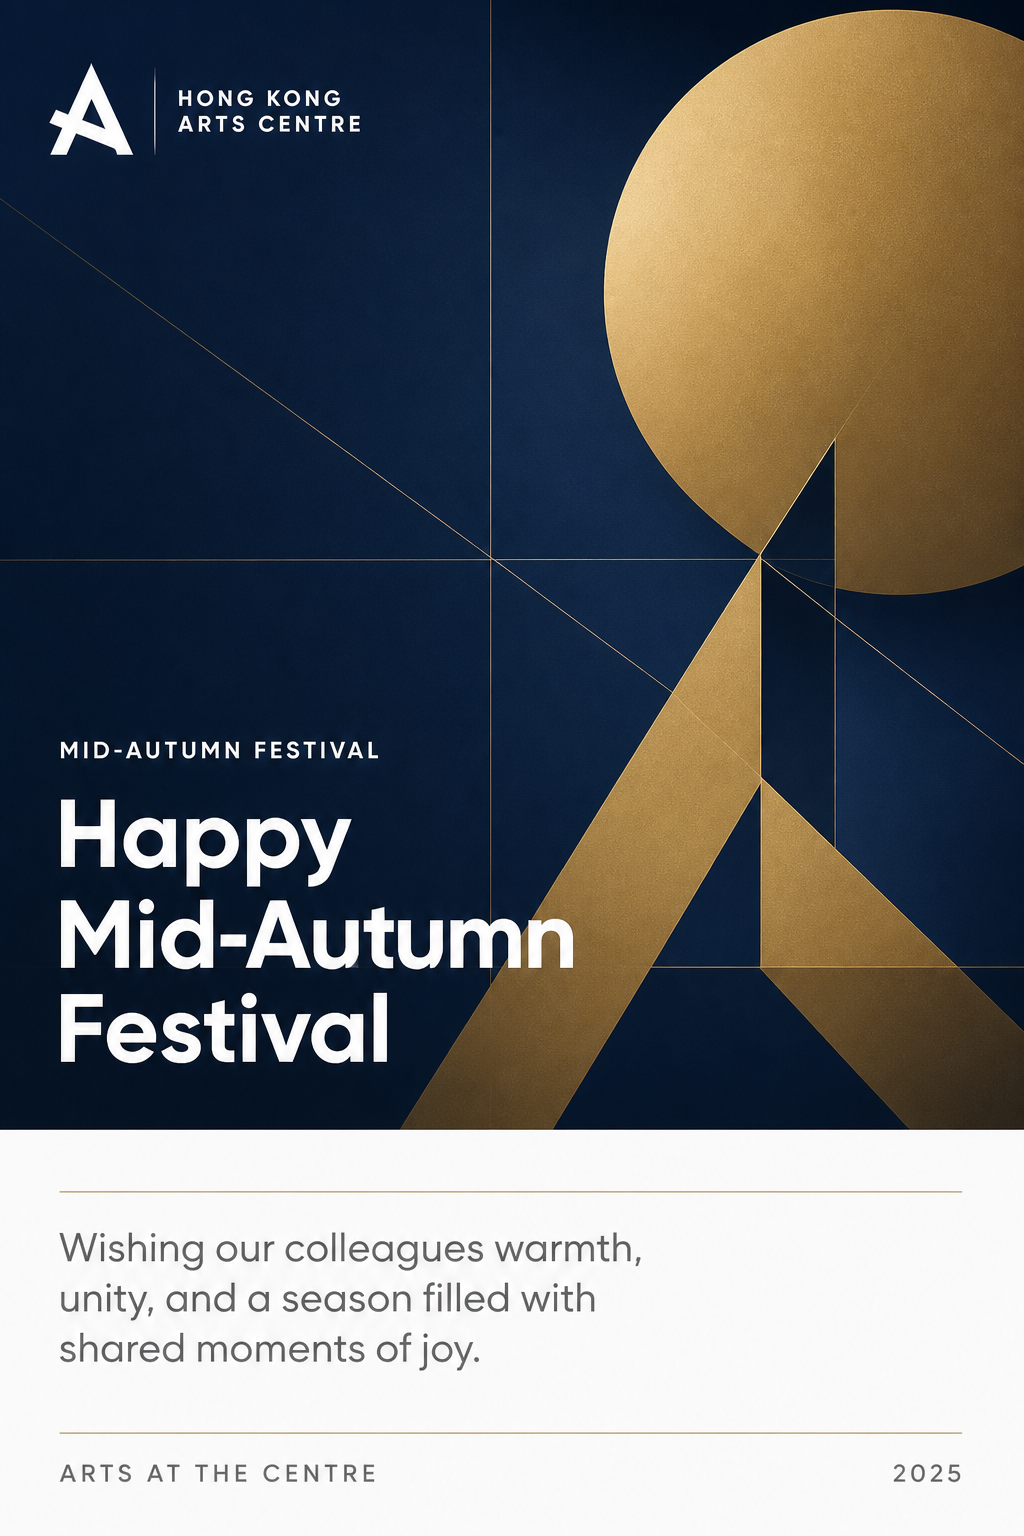
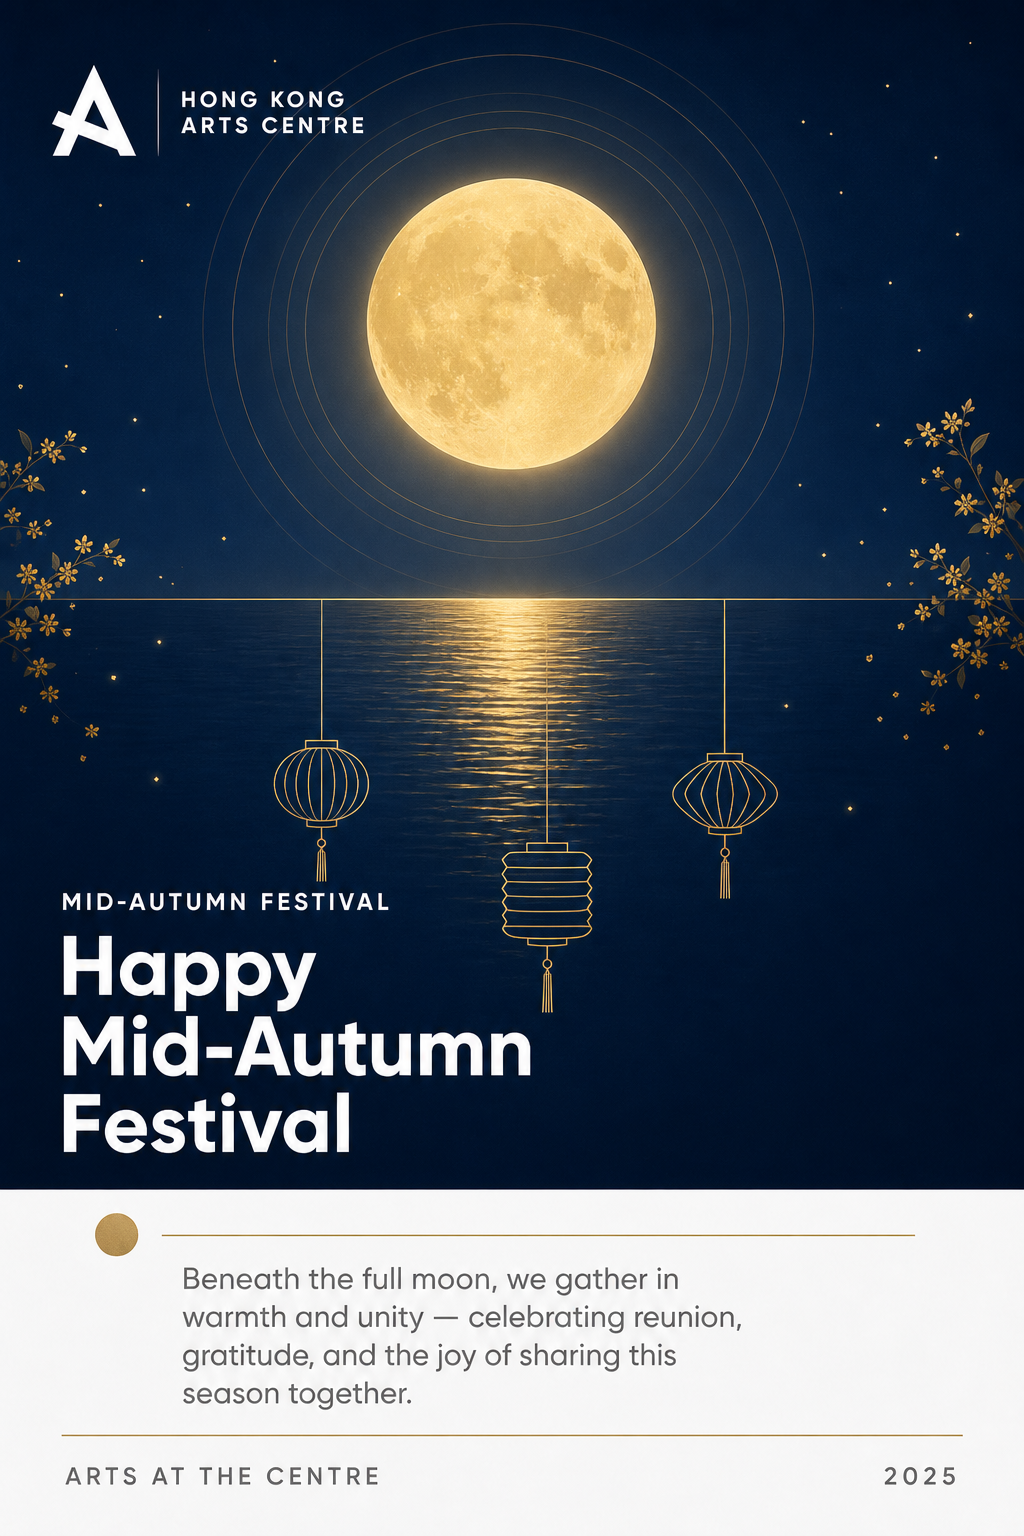
Refine Mid-Autumn card with festival symbolism
Add full moon, moon-viewing reflection, reunion rings, minimal
lanterns, osmanthus accents and night sky while keeping corporate
HKAC poster aesthetic. Update message to emphasise reunion theme.

diff --git a/hkac-mid-autumn-greeting-card.html b/hkac-mid-autumn-greeting-card.html
@@ -10,12 +10,14 @@
   <style>
     :root {
       --white: #ffffff;
-      --off-white: #f7f7f5;
       --ink: #111111;
-      --navy: #1a2233;
+      --navy: #162033;
+      --navy-deep: #0d1520;
       --gold: #c9a24d;
       --gold-soft: #e8d5a8;
+      --gold-glow: rgba(232, 213, 168, 0.35);
       --slate: #5c6470;
+      --horizon: rgba(232, 213, 168, 0.18);
     }
 
     * {
@@ -47,97 +49,160 @@
 
     .hero {
       position: relative;
-      background: var(--navy);
+      background: var(--navy-deep);
       overflow: hidden;
     }
 
-    .hero::before {
-      content: "";
+    .sky {
       position: absolute;
       inset: 0;
-      background: linear-gradient(160deg, #243048 0%, var(--navy) 55%, #121820 100%);
+      background: linear-gradient(180deg, #1a2840 0%, var(--navy) 42%, #121c2c 68%, #0a1018 100%);
     }
 
-    .triangle {
+    .stars {
       position: absolute;
-      width: 0;
-      height: 0;
-      border-style: solid;
-      opacity: 0.9;
+      inset: 0;
+      pointer-events: none;
     }
 
-    .triangle--1 {
-      bottom: 18%;
-      left: -8%;
-      border-width: 0 0 180px 220px;
-      border-color: transparent transparent var(--gold) transparent;
-      opacity: 0.22;
+    .star {
+      position: absolute;
+      width: 2px;
+      height: 2px;
+      border-radius: 50%;
+      background: rgba(255, 255, 255, 0.45);
     }
 
-    .triangle--2 {
-      top: 12%;
-      right: -6%;
-      border-width: 140px 160px 0 0;
-      border-color: var(--gold-soft) transparent transparent transparent;
-      opacity: 0.14;
+    .star:nth-child(1) { top: 12%; left: 18%; }
+    .star:nth-child(2) { top: 8%; left: 42%; opacity: 0.7; }
+    .star:nth-child(3) { top: 15%; left: 68%; width: 3px; height: 3px; opacity: 0.55; }
+    .star:nth-child(4) { top: 20%; left: 84%; opacity: 0.4; }
+    .star:nth-child(5) { top: 24%; left: 28%; opacity: 0.35; }
+
+    .reunion-ring {
+      position: absolute;
+      top: 10%;
+      left: 50%;
+      transform: translateX(-50%);
+      border-radius: 50%;
+      border: 1px solid rgba(232, 213, 168, 0.12);
+      pointer-events: none;
     }
 
-    .triangle--3 {
-      bottom: 0;
-      right: 18%;
-      border-width: 0 90px 110px 0;
-      border-color: transparent var(--white) transparent transparent;
-      opacity: 0.06;
-    }
+    .reunion-ring--1 { width: 52%; aspect-ratio: 1; }
+    .reunion-ring--2 { width: 64%; aspect-ratio: 1; opacity: 0.6; }
+    .reunion-ring--3 { width: 76%; aspect-ratio: 1; opacity: 0.3; }
 
     .moon {
       position: absolute;
-      top: 14%;
-      right: 12%;
-      width: 42%;
+      top: 11%;
+      left: 50%;
+      transform: translateX(-50%);
+      width: 30%;
       aspect-ratio: 1;
       border-radius: 50%;
-      background: radial-gradient(circle at 35% 32%, #fff8e8 0%, var(--gold-soft) 42%, var(--gold) 100%);
-      box-shadow: 0 0 0 1px rgba(255, 255, 255, 0.08);
+      background: radial-gradient(circle at 38% 34%, #fffef6 0%, var(--gold-soft) 38%, var(--gold) 88%);
+      box-shadow:
+        0 0 48px var(--gold-glow),
+        0 0 96px rgba(201, 162, 77, 0.15);
+      z-index: 2;
     }
 
-    .moon-cut {
+    .horizon {
       position: absolute;
-      top: 22%;
-      right: 6%;
-      width: 34%;
-      aspect-ratio: 1;
-      border-radius: 50%;
-      background: #1e2838;
-    }
-
-    .grid-line {
-      position: absolute;
-      background: rgba(255, 255, 255, 0.06);
-    }
-
-    .grid-line--h {
-      left: 8%;
-      right: 8%;
+      left: 0;
+      right: 0;
+      top: 58%;
       height: 1px;
-      top: 62%;
+      background: linear-gradient(90deg, transparent, var(--horizon), transparent);
+      z-index: 3;
     }
 
-    .grid-line--v {
-      top: 10%;
-      bottom: 10%;
-      width: 1px;
-      left: 38%;
+    .moon-reflection {
+      position: absolute;
+      top: 60%;
+      left: 50%;
+      transform: translateX(-50%);
+      width: 22%;
+      height: 8%;
+      border-radius: 50%;
+      background: radial-gradient(ellipse, rgba(232, 213, 168, 0.28) 0%, transparent 72%);
+      filter: blur(2px);
+      z-index: 1;
     }
+
+    .water {
+      position: absolute;
+      left: 0;
+      right: 0;
+      bottom: 0;
+      height: 42%;
+      background: linear-gradient(180deg, transparent 0%, rgba(10, 16, 24, 0.4) 30%, rgba(8, 12, 18, 0.85) 100%);
+    }
+
+    .lanterns {
+      position: absolute;
+      bottom: 14%;
+      left: 50%;
+      transform: translateX(-50%);
+      display: flex;
+      gap: 28px;
+      align-items: flex-start;
+      z-index: 4;
+    }
+
+    .lantern {
+      display: flex;
+      flex-direction: column;
+      align-items: center;
+    }
+
+    .lantern-line {
+      width: 1px;
+      height: 14px;
+      background: rgba(232, 213, 168, 0.35);
+    }
+
+    .lantern-body {
+      width: 18px;
+      height: 24px;
+      border: 1px solid rgba(201, 162, 77, 0.55);
+      border-radius: 40% 40% 45% 45% / 35% 35% 65% 65%;
+      background: rgba(201, 162, 77, 0.08);
+      box-shadow: inset 0 0 12px rgba(232, 213, 168, 0.12);
+    }
+
+    .lantern--center .lantern-body {
+      width: 22px;
+      height: 28px;
+      border-color: rgba(201, 162, 77, 0.7);
+      background: rgba(201, 162, 77, 0.12);
+    }
+
+    .osmanthus {
+      position: absolute;
+      width: 3px;
+      height: 3px;
+      border-radius: 50%;
+      background: var(--gold-soft);
+      opacity: 0.45;
+    }
+
+    .osmanthus:nth-child(1) { top: 32%; left: 10%; }
+    .osmanthus:nth-child(2) { top: 38%; left: 14%; opacity: 0.3; }
+    .osmanthus:nth-child(3) { top: 35%; right: 12%; }
+    .osmanthus:nth-child(4) { top: 42%; right: 16%; opacity: 0.3; }
+    .osmanthus:nth-child(5) { top: 48%; left: 22%; opacity: 0.25; width: 2px; height: 2px; }
+    .osmanthus:nth-child(6) { top: 46%; right: 22%; opacity: 0.25; width: 2px; height: 2px; }
 
     .brand-top {
       position: absolute;
-      top: 7%;
+      top: 6%;
       left: 8%;
       display: flex;
       align-items: center;
       gap: 10px;
-      z-index: 2;
+      z-index: 5;
     }
 
     .brand-mark {
@@ -171,9 +236,9 @@
     .hero-copy {
       position: absolute;
       left: 8%;
-      bottom: 10%;
-      z-index: 2;
-      max-width: 72%;
+      bottom: 8%;
+      z-index: 5;
+      max-width: 78%;
     }
 
     .hero-label {
@@ -182,13 +247,13 @@
       letter-spacing: 0.28em;
       text-transform: uppercase;
       color: var(--gold-soft);
-      margin-bottom: 14px;
+      margin-bottom: 12px;
     }
 
     .hero-title {
-      font-size: clamp(26px, 6.4vw, 34px);
+      font-size: clamp(24px, 6vw, 32px);
       font-weight: 600;
-      line-height: 1.12;
+      line-height: 1.14;
       letter-spacing: -0.02em;
       color: var(--white);
     }
@@ -202,11 +267,38 @@
       min-height: 28%;
     }
 
+    .motif {
+      display: flex;
+      align-items: center;
+      gap: 10px;
+      margin-bottom: 16px;
+    }
+
+    .motif-icon {
+      width: 28px;
+      height: 28px;
+      border: 1px solid var(--gold);
+      border-radius: 50%;
+      position: relative;
+      flex-shrink: 0;
+    }
+
+    .motif-icon::after {
+      content: "";
+      position: absolute;
+      top: 50%;
+      left: 50%;
+      transform: translate(-50%, -50%);
+      width: 10px;
+      height: 10px;
+      border-radius: 50%;
+      background: var(--gold-soft);
+    }
+
     .divider {
-      width: 40px;
-      height: 2px;
-      background: var(--gold);
-      margin-bottom: 18px;
+      flex: 1;
+      height: 1px;
+      background: linear-gradient(90deg, var(--gold), transparent);
     }
 
     .subline {
@@ -270,14 +362,46 @@
   <div>
     <article class="card" role="img" aria-label="Hong Kong Arts Centre Mid-Autumn Festival greeting card">
       <section class="hero">
-        <div class="triangle triangle--1" aria-hidden="true"></div>
-        <div class="triangle triangle--2" aria-hidden="true"></div>
-        <div class="triangle triangle--3" aria-hidden="true"></div>
-        <div class="grid-line grid-line--h" aria-hidden="true"></div>
-        <div class="grid-line grid-line--v" aria-hidden="true"></div>
+        <div class="sky" aria-hidden="true"></div>
+
+        <div class="stars" aria-hidden="true">
+          <span class="star"></span>
+          <span class="star"></span>
+          <span class="star"></span>
+          <span class="star"></span>
+          <span class="star"></span>
+        </div>
+
+        <div class="reunion-ring reunion-ring--1" aria-hidden="true"></div>
+        <div class="reunion-ring reunion-ring--2" aria-hidden="true"></div>
+        <div class="reunion-ring reunion-ring--3" aria-hidden="true"></div>
 
         <div class="moon" aria-hidden="true"></div>
-        <div class="moon-cut" aria-hidden="true"></div>
+        <div class="horizon" aria-hidden="true"></div>
+        <div class="moon-reflection" aria-hidden="true"></div>
+        <div class="water" aria-hidden="true"></div>
+
+        <div class="osmanthus" aria-hidden="true"></div>
+        <div class="osmanthus" aria-hidden="true"></div>
+        <div class="osmanthus" aria-hidden="true"></div>
+        <div class="osmanthus" aria-hidden="true"></div>
+        <div class="osmanthus" aria-hidden="true"></div>
+        <div class="osmanthus" aria-hidden="true"></div>
+
+        <div class="lanterns" aria-hidden="true">
+          <div class="lantern">
+            <div class="lantern-line"></div>
+            <div class="lantern-body"></div>
+          </div>
+          <div class="lantern lantern--center">
+            <div class="lantern-line"></div>
+            <div class="lantern-body"></div>
+          </div>
+          <div class="lantern">
+            <div class="lantern-line"></div>
+            <div class="lantern-body"></div>
+          </div>
+        </div>
 
         <header class="brand-top">
           <div class="brand-mark">
@@ -297,9 +421,12 @@
 
       <section class="content">
         <div>
-          <div class="divider" aria-hidden="true"></div>
+          <div class="motif" aria-hidden="true">
+            <div class="motif-icon"></div>
+            <div class="divider"></div>
+          </div>
           <p class="subline">
-            Wishing our colleagues warmth, unity, and a season filled with shared moments of joy.
+            Beneath the full moon, we gather in warmth and unity — celebrating reunion, gratitude, and the joy of sharing this season together.
           </p>
         </div>
 
